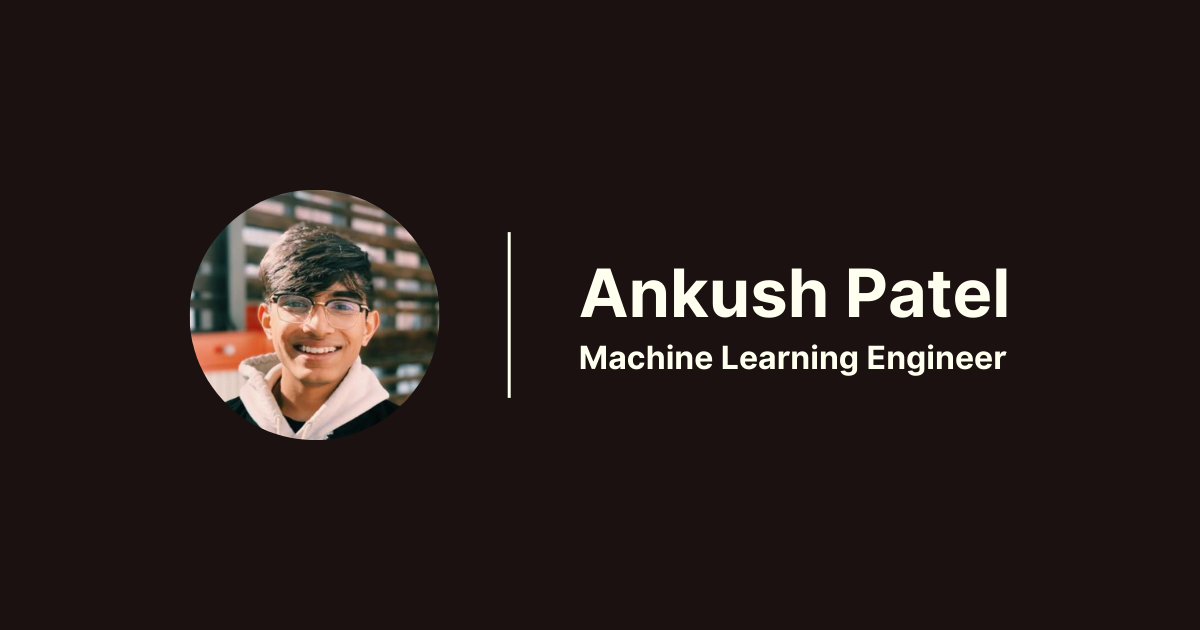
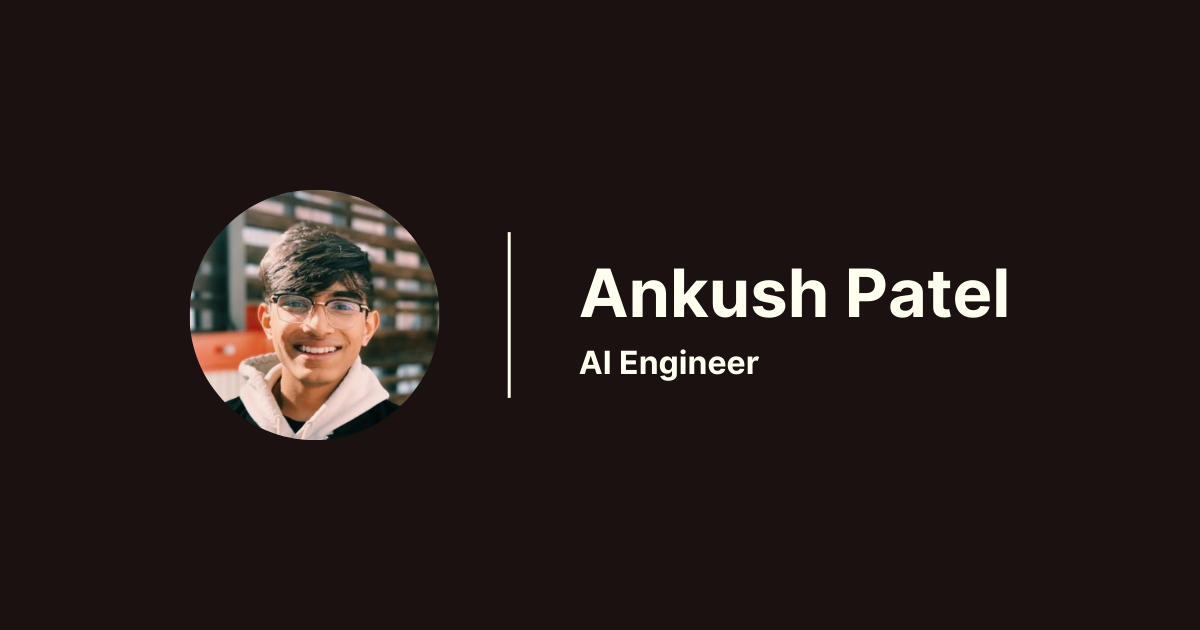
MLOps -> AI Engineer rebrand

Changed region(s): [[0.4625, 0.5429, 0.8325, 0.6032]]

diff --git a/app/page.tsx b/app/page.tsx
@@ -351,7 +351,7 @@ export default function Home() {
             Ankush Patel
           </h1>
           <h2 className="flex-initial whitespace-nowrap font-mono text-2xl text-content lg:text-4xl">
-            MLOps Engineer
+            AI Engineer
           </h2>
         </div>
       </div>
